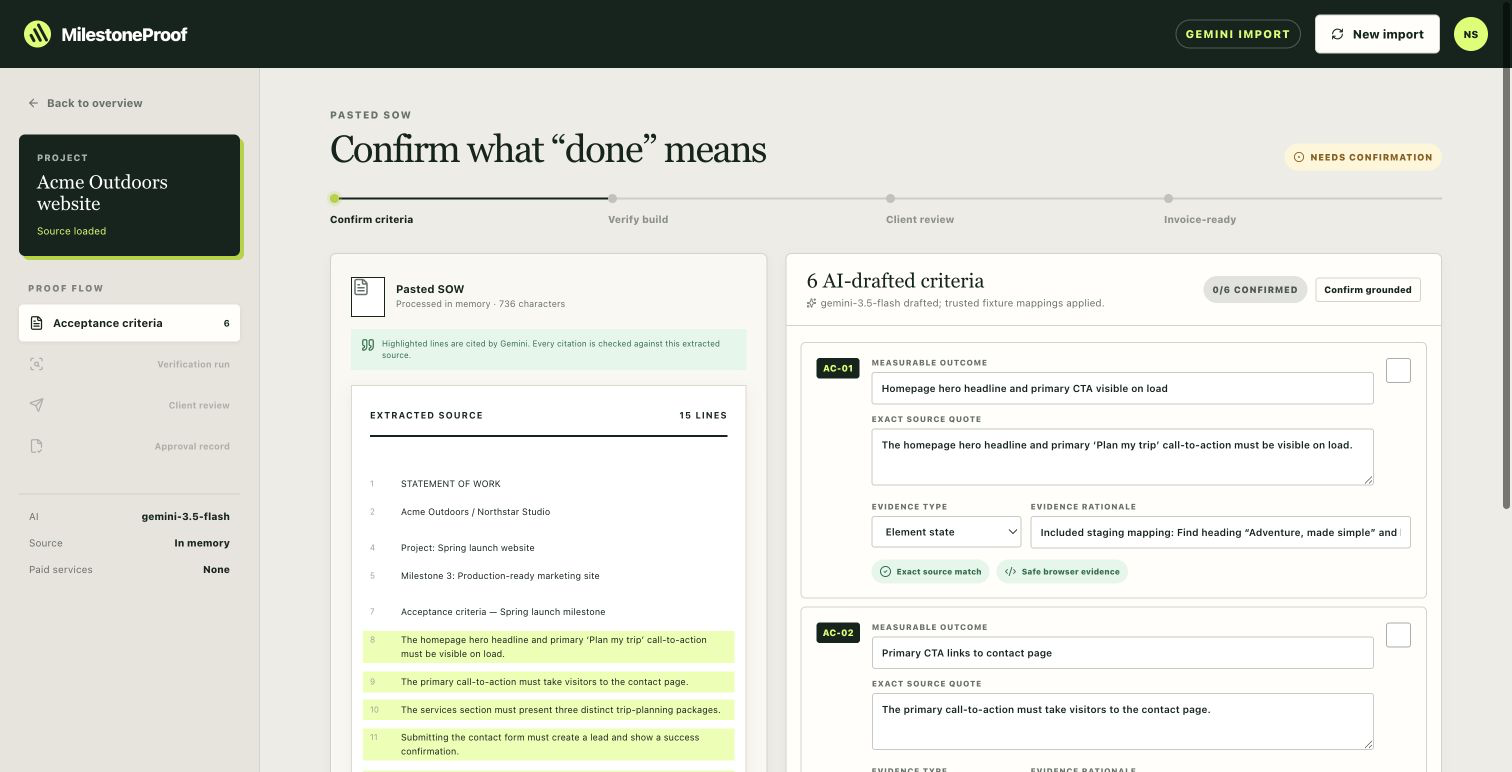
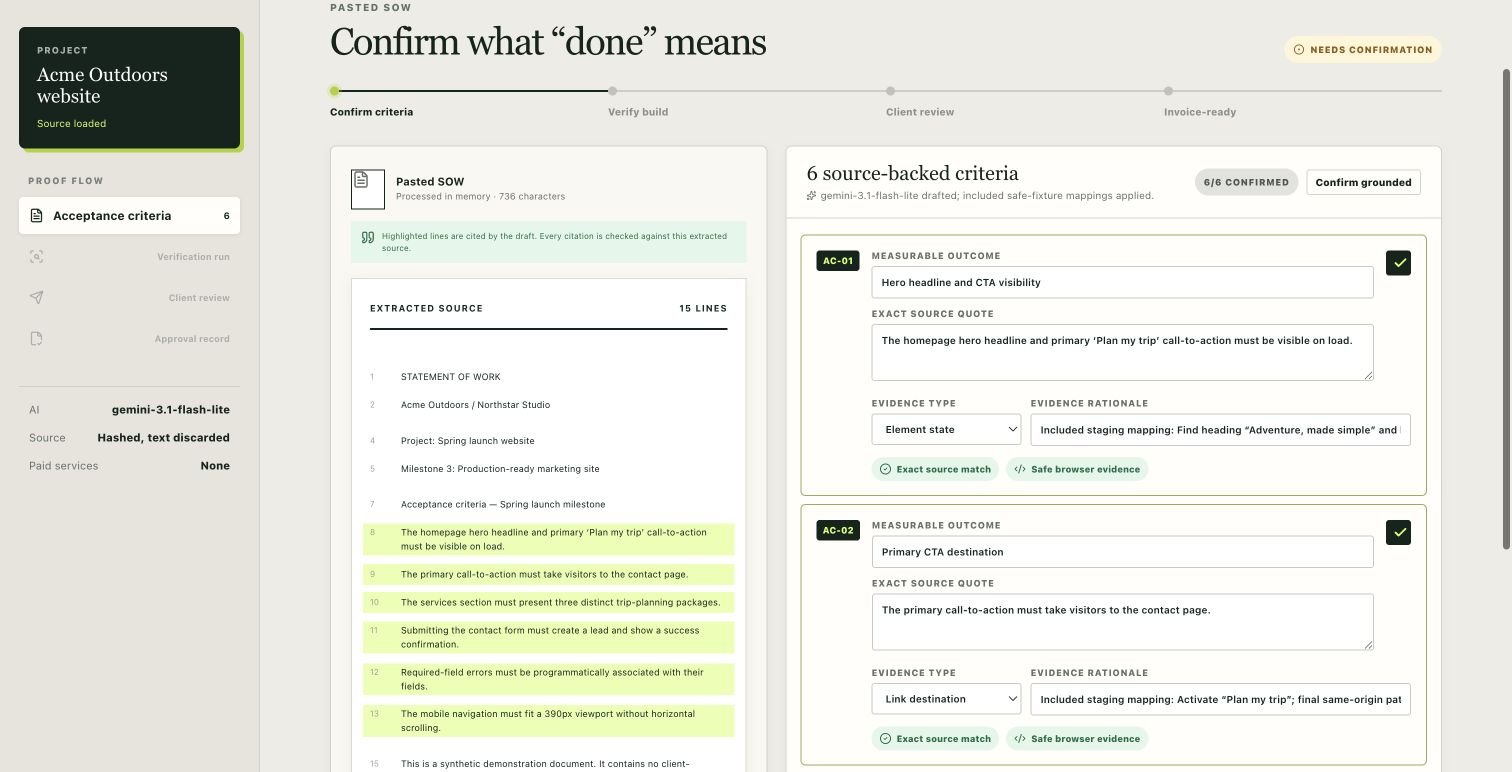
fix: harden production audit and report rendering

diff --git a/apps/web/components/milestone-studio.tsx b/apps/web/components/milestone-studio.tsx
@@ -34,7 +34,7 @@ import {
 import { Brand } from "@/components/brand";
 import { checkTypes, isCriterionReady, isGroundedQuote, lineContainsCitation, normalizeWhitespace, type AnalysisCriterion, type CheckType } from "@/lib/analysis";
 import { demoCriteria, demoMilestone, demoSowText, sowExcerpt } from "@/lib/demo";
-import { formatDuration } from "@/lib/format";
+import { formatDuration, formatTimestamp } from "@/lib/format";
 import { RECORD_NOTICE_VERSION } from "@/lib/policy";
 
 type Phase = "intake" | "analyzing" | "criteria" | "handoff" | "running1" | "run1" | "running2" | "run2" | "shared";
@@ -795,7 +795,7 @@ function VerificationReport({ run, criteria, onRerun, onShare, shareBusy = false
   const totalDuration = run.results.reduce((sum, result) => sum + result.durationMs, 0);
   const resultByCriterion = Object.fromEntries(run.results.map((result) => [result.criterionId, result]));
   const evidence = run.artifacts.find((artifact) => artifact.url && (!isPass ? resultByCriterion[artifact.criterionId]?.status !== "PASS" : true)) ?? run.artifacts.find((artifact) => artifact.url);
-  const completedAt = run.completedAt ? new Intl.DateTimeFormat("en-US", { dateStyle: "medium", timeStyle: "short", timeZoneName: "short" }).format(new Date(run.completedAt)) : "Just now";
+  const completedAt = run.completedAt ? formatTimestamp(new Date(run.completedAt)) : "Just now";
   return (
     <>
       <div className="report-grid">

diff --git a/apps/web/components/client-review.tsx b/apps/web/components/client-review.tsx
@@ -4,6 +4,7 @@ import Link from "next/link";
 import { FormEvent, useEffect, useRef, useState } from "react";
 import { ArrowRight, Check, CheckCircle2, FileCheck2, LockKeyhole, MessageSquareText, ShieldCheck, X } from "lucide-react";
 import { Brand } from "@/components/brand";
+import { formatTimestamp } from "@/lib/format";
 import { RECORD_NOTICE_VERSION } from "@/lib/policy";
 
 type ReviewResult = { criterionId: string; status: string; expected: string; observed: string; durationMs: number; timestamp: string };
@@ -27,7 +28,7 @@ type ReviewSnapshot = {
 type PacketResponse = { packetId: string; snapshot: ReviewSnapshot; snapshotSha256: string; expiresAt: string; decision?: "APPROVED" | "CHANGES_REQUESTED" | null; reviewerName?: string | null; reviewerEmail?: string | null; reviewerNote?: string | null; decidedAt?: string | null; receiptSha256?: string | null };
 
 const money = (amountMinor: number, currency: string) => new Intl.NumberFormat("en-US", { style: "currency", currency, maximumFractionDigits: 0 }).format(amountMinor / 100);
-const dateTime = (value: string) => new Intl.DateTimeFormat("en-US", { dateStyle: "medium", timeStyle: "short", timeZoneName: "short" }).format(new Date(value));
+const dateTime = (value: string) => formatTimestamp(new Date(value));
 
 export function ClientReview({ packetId }: { packetId: string }) {
   const [packet, setPacket] = useState<PacketResponse | null>(null);

diff --git a/apps/web/components/approval-receipt.tsx b/apps/web/components/approval-receipt.tsx
@@ -4,6 +4,7 @@ import Link from "next/link";
 import { useEffect, useState } from "react";
 import { ArrowLeft, Check, Download, FileJson2, FileWarning } from "lucide-react";
 import { Brand } from "@/components/brand";
+import { formatTimestamp } from "@/lib/format";
 
 type Result = { criterionId: string; status: string; expected: string; observed: string };
 type Criterion = { id: string; title: string };
@@ -21,7 +22,7 @@ type ReceiptPacket = {
 };
 
 const money = (amountMinor: number, currency: string) => new Intl.NumberFormat("en-US", { style: "currency", currency, maximumFractionDigits: 0 }).format(amountMinor / 100);
-const dateTime = (value: string) => new Intl.DateTimeFormat("en-US", { dateStyle: "medium", timeStyle: "long", timeZoneName: "short" }).format(new Date(value));
+const dateTime = (value: string) => formatTimestamp(new Date(value));
 
 export function ApprovalReceipt({ packetId }: { packetId: string }) {
   const [packet, setPacket] = useState<ReceiptPacket | null>(null);

diff --git a/apps/web/lib/format.test.ts b/apps/web/lib/format.test.ts
@@ -1,0 +1,15 @@
+import { describe, expect, it } from "vitest";
+import { formatDuration, formatTimestamp } from "./format";
+
+describe("record formatting", () => {
+  it("formats durations", () => {
+    expect(formatDuration(999)).toBe("999ms");
+    expect(formatDuration(1250)).toBe("1.3s");
+  });
+
+  it("renders a timezone-explicit timestamp without invalid Intl options", () => {
+    const rendered = formatTimestamp(new Date("2026-07-20T16:26:41.000Z"));
+    expect(rendered).toMatch(/Jul 20, 2026/);
+    expect(rendered).toMatch(/(UTC|GMT|PDT|PST|EDT|EST|CDT|CST|MDT|MST)/);
+  });
+});
